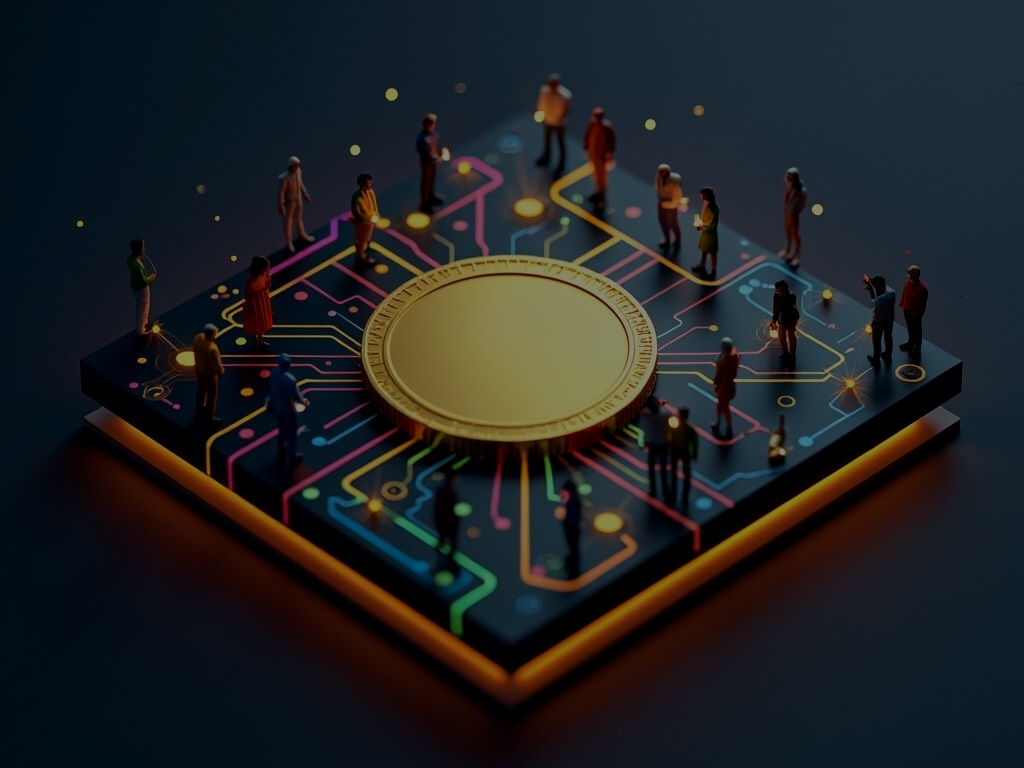
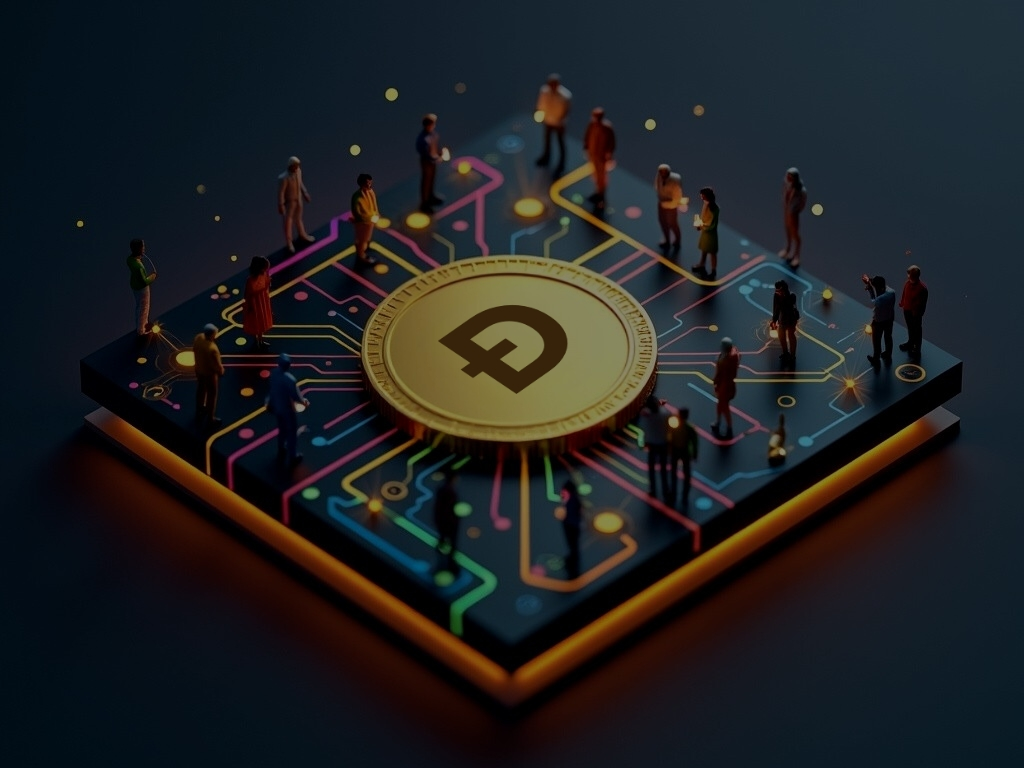
add actual join section image; fix missing closing tag

Changed region(s): [[0.4375, 0.375, 0.5625, 0.5312]]

diff --git a/index.html b/index.html
@@ -147,7 +147,7 @@ With Dogenet bringing these nodes together around communities of decentralised s
           </div>
           <div class="explainer-block yellow">
             <article data-name="4B" class="active">
-              <strong>Decentralised Shopping<strong>.
+              <strong>Decentralised Shopping</strong>.
               Dogebox opens the way for self-hosted shops where you run your own online store, list your own products, and they are shared around the network. This can lead to the creation of shopping aggregators marketplaces that list millions of products available in Dogecoin, without any central points of failure.
             </article>
             <article data-name="4A">
